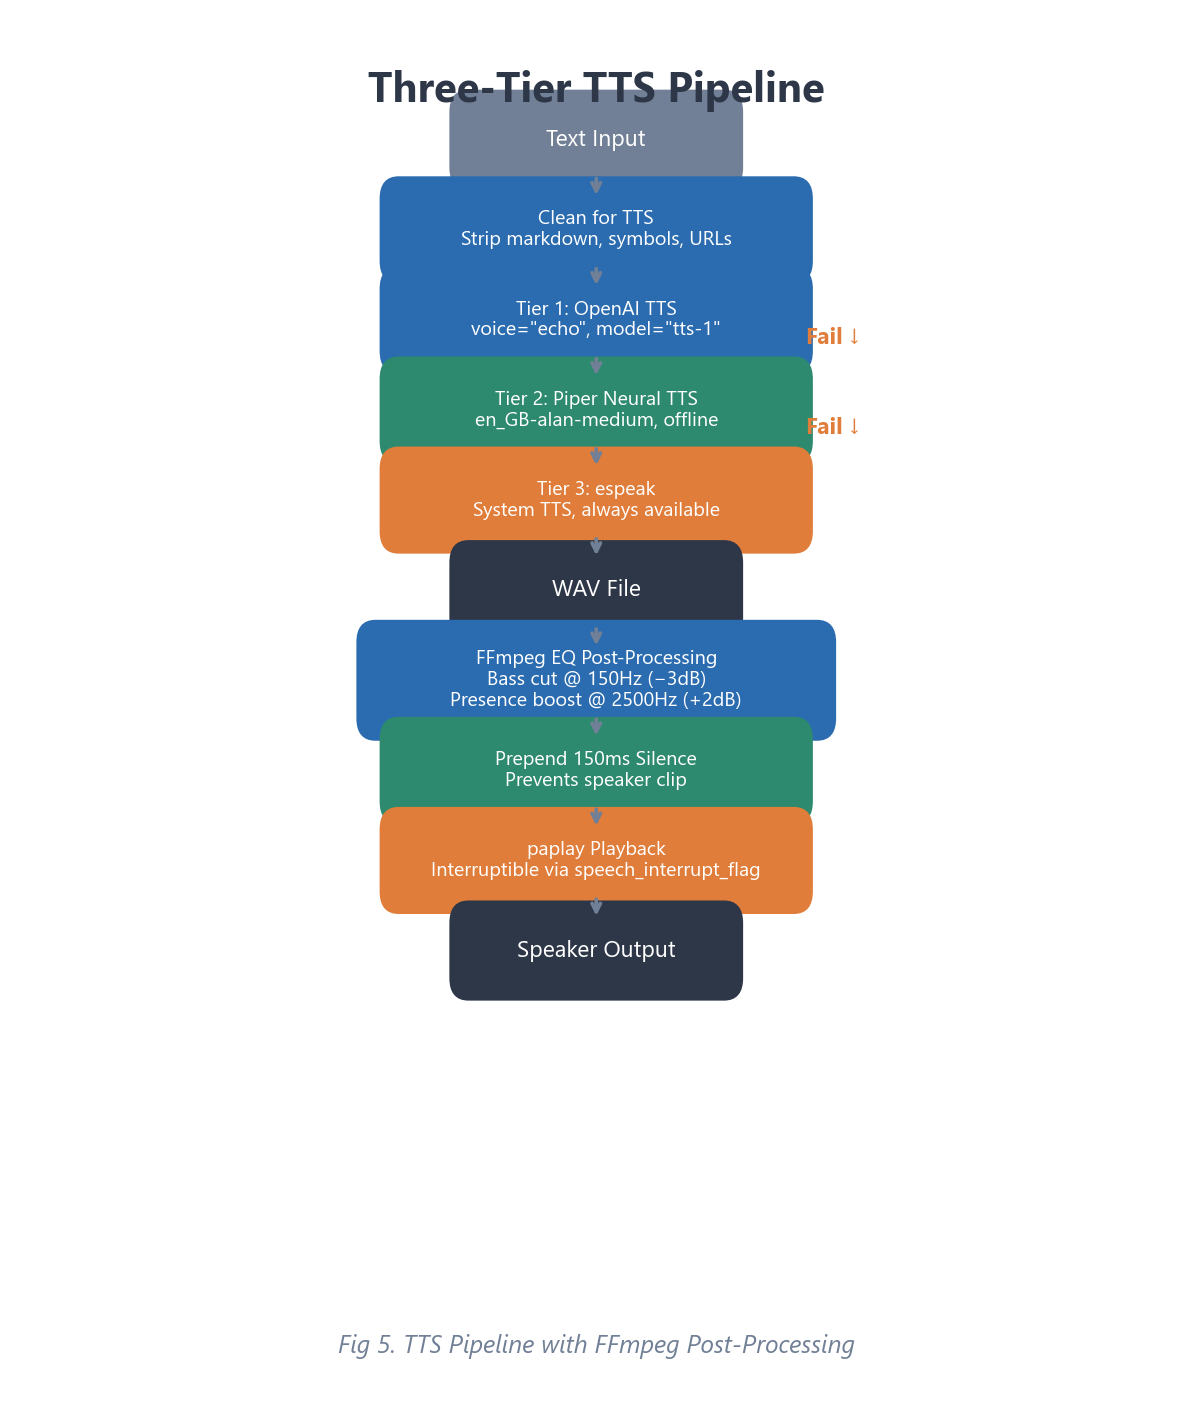
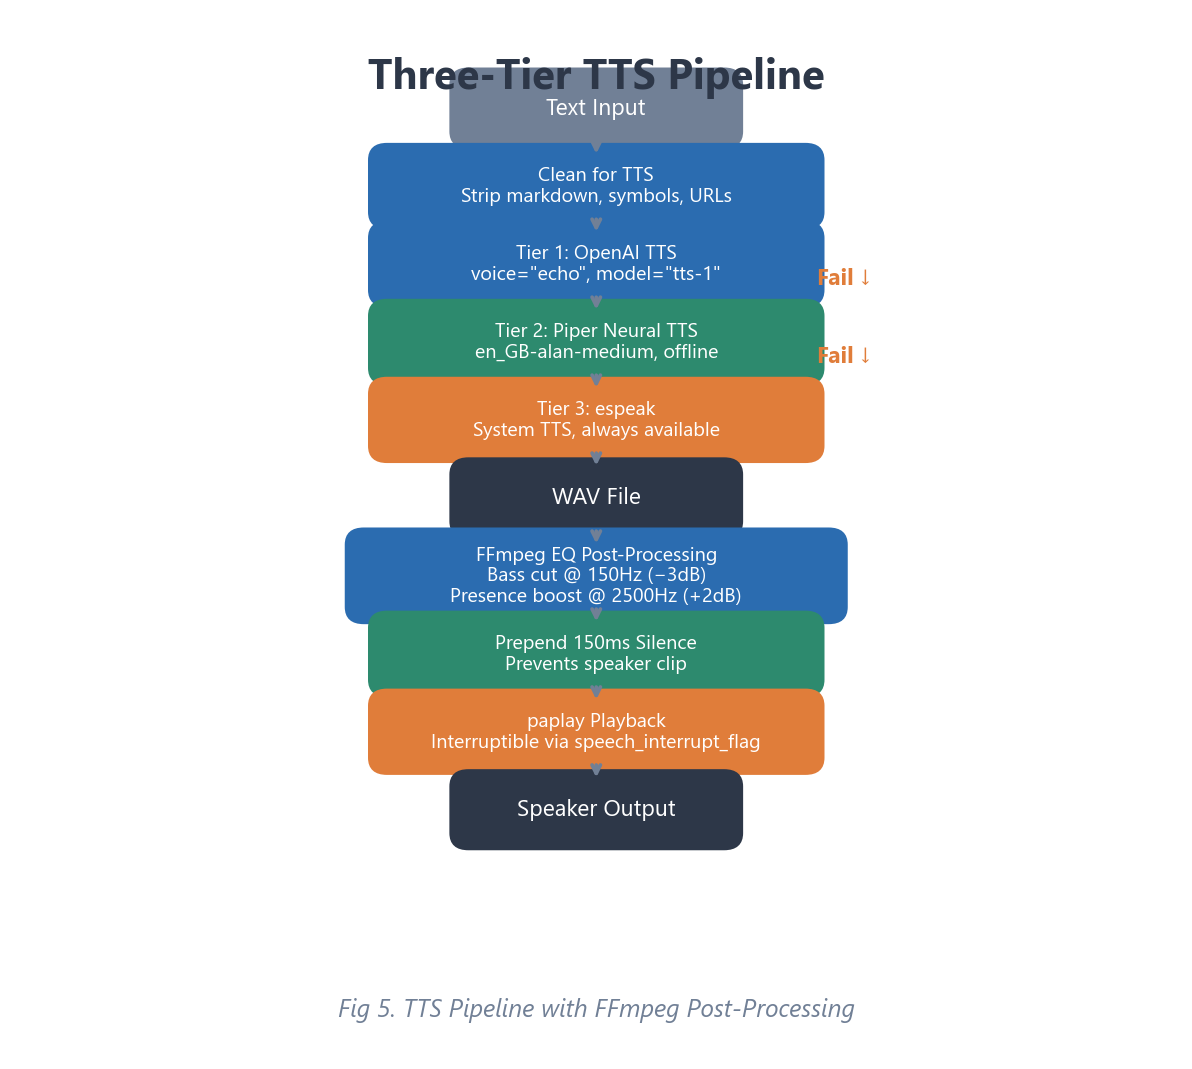
Update diagrams (fig3-5) and add final test plan

Changed region(s): [[0.2794, 0.0309, 0.7139, 0.8026], [0.2794, 0.9261, 0.7139, 0.957]]

diff --git a/test-plan.md b/test-plan.md
@@ -1,0 +1,201 @@
+Test Plan Document
+==================
+
+IDENTIFICATION INFORMATION
+--------------------------
+
+### Product
+
+- **Product Name:** Gizmo – AI-Powered Meccanoid Robot Assistant
+
+### Project Description
+
+The Gizmo project transforms a Meccanoid G15KS toy robot into a fully interactive, voice-controlled AI assistant powered by a Raspberry Pi 5. The system combines offline speech recognition (Vosk), conversational AI (GPT-4o-mini with function calling), a three-tier text-to-speech pipeline (OpenAI TTS / Piper / espeak), custom servo motor control via a proprietary 2400-baud serial protocol bit-banged on GPIO pins, and DC drive motor control via an L298N motor driver. The robot responds to verbal commands, performs 18 physical gestures, searches the web for real-time information, and maintains persistent memory across sessions.
+
+### Testing Objectives
+
+The objective of this test plan is to verify that the main functional and non-functional requirements of the Meccanoid AI Assistant are working as intended. Testing ensures:
+
+- Voice commands are recognized accurately.
+- AI responses are generated and spoken correctly.
+- Servo and motor systems operate safely and reliably.
+- Full system integration functions without failure.
+- Performance meets response-time requirements.
+- The system runs stably over extended periods without memory leaks or deadlocks.
+
+### Features to be Tested
+
+(Referenced from Requirements Document – CSCI 497)
+
+- Speech Recognition Module (Vosk offline STT)
+- AI Response Engine (GPT-4o-mini via OpenAI API)
+- Three-Tier Text-to-Speech Pipeline (OpenAI TTS, Piper, espeak)
+- Custom Servo Protocol Driver (2400-baud GPIO bit-bang)
+- Drive Motor Control (L298N H-Bridge, forward/backward)
+- Three-Tier Command Parsing Pipeline (NLP correction, fast-path, GPT function calling)
+- Persistent Memory System (gizmo_memory.json)
+- Full System End-to-End Interaction
+- Performance and Stability (4+ hour runtime test)
+
+### Features Not to Be Tested
+
+- **Internet connectivity reliability:** Dependent on external network infrastructure.
+- **Third-party API internal logic:** GPT-4o-mini behavior outside scope of project control.
+- **Cosmetic shell design of robot:** Focus is on functionality, not aesthetics.
+
+
+UNIT TEST
+---------
+
+### UNIT TEST STRATEGY / EXTENT OF UNIT TESTING:
+
+Unit testing evaluates individual modules independently before integration. An automated test harness (`test_gizmo.py`) mocks all hardware (GPIO, servos, motors) and OpenAI API calls, allowing the full command parsing pipeline to be tested on any machine without physical hardware.
+
+**Test Environment:**
+- Hardware: Raspberry Pi 5
+- OS: Raspberry Pi OS (Bookworm)
+- Python Version: 3.11
+- Servo Control: Custom 2400-baud serial protocol via GPIO bit-banging
+- Motor Driver: L298N Dual H-Bridge
+- Libraries: Vosk, OpenAI SDK, gpiozero, sounddevice, Piper TTS, espeak
+
+### UNIT TEST CASES
+
+| # | OBJECTIVE | INPUT | EXPECTED RESULTS | TEST DELIVERABLES |
+| - | --------- | ----- | ---------------- | ----------------- |
+| 1 | Verify wake phrase activates Gizmo | "Hey Gizmo" | Gizmo transitions to awake state | Automated test log (33/33 passed) |
+| 2 | Verify sleep phrase deactivates Gizmo | "Goodnight Gizmo" | Gizmo transitions to sleep state | Automated test log |
+| 3 | Verify forward movement (fast-path) | "Go forward" | Motor driver engaged, robot moves forward | Automated test log |
+| 4 | Verify backward movement (fast-path) | "Go backward" | Motor driver engaged, robot moves backward | Automated test log |
+| 5 | Verify turn left (fast-path) | "Turn left" | Left turn motor sequence | Automated test log |
+| 6 | Verify turn right (fast-path) | "Turn right" | Right turn motor sequence | Automated test log |
+| 7 | Verify stop command (fast-path) | "Stop" | All motors stop | Automated test log |
+| 8 | Verify wave gesture (fast-path) | "Wave" | Wave gesture executed | Automated test log |
+| 9 | Verify arms up gesture | "Arms up" | Both arms raise | Automated test log |
+| 10 | Verify arms down gesture | "Arms down" | Both arms lower | Automated test log |
+| 11 | Verify look left gesture | "Look left" | Head pans left | Automated test log |
+| 12 | Verify look right gesture | "Look right" | Head pans right | Automated test log |
+| 13 | Verify look forward gesture | "Look forward" | Head returns to center | Automated test log |
+| 14 | Verify look up gesture | "Look up" | Head tilts up | Automated test log |
+| 15 | Verify look down gesture | "Look down" | Head tilts down | Automated test log |
+| 18 | Verify celebrate gesture | "Celebrate" | Celebration animation | Automated test log |
+| 19 | Verify park gesture | "Park" | All servos return to neutral | Automated test log |
+| 20 | Verify volume up | "Volume up" | System volume increases | Automated test log |
+| 21 | Verify volume down | "Volume down" | System volume decreases | Automated test log |
+| 22 | Verify mute | "Mute" | System volume set to 0% | Automated test log |
+| 23 | Verify louder | "Louder" | System volume increases | Automated test log |
+| 24 | Verify quieter | "Quieter" | System volume decreases | Automated test log |
+| 25 | Verify AI joke request | "Tell me a joke" | GPT-4o-mini generates joke response | Automated test log |
+| 26 | Verify time query | "What time is it?" | AI responds with current time | Automated test log |
+| 27 | Verify natural gesture request via AI | "Can you do a wave?" | AI calls perform_gesture function | Automated test log |
+| 28 | Verify distance command via AI | "Walk 3 feet" | AI calls move_robot with distance | Automated test log |
+| 29 | Verify complex NL command via AI | "Look over there to the left" | AI interprets and calls gesture | Automated test log |
+| 30 | Verify conversational fallback | "What's the meaning of life?" | AI generates conversational response | Automated test log |
+| 31 | Verify commands ignored while sleeping | Command while sleeping | No action taken | Automated test log |
+| 32 | Verify NLP self-correction | "Turn left oh wait right" | Corrected to "turn right" | Automated test log |
+| 33 | Verify memory system loads | Load gizmo_memory.json | File loads without errors | Automated test log |
+
+
+REGRESSION TEST
+---------------
+
+### Regression Test Strategy
+
+Ensure that previously developed and tested software still performs after change. After any major code or hardware change, core features are retested to make sure nothing previously working has broken.
+
+### Regression Test Cases
+
+| # | OBJECTIVE | INPUT | EXPECTED RESULTS | OBSERVED |
+| - | --------- | ----- | ---------------- | -------- |
+| 1 | Confirm servo sweep stability after driver refactor | Sweep all 8 servos | No jitter, crash, or signal corruption | All 8 servos swept cleanly — PASS |
+| 2 | Confirm speech-to-action mapping after parser update | "Move backward" | Correct motor response | Motor engaged correctly — PASS |
+| 3 | Confirm TTS pipeline after FFmpeg EQ changes | Generate speech output | Audio plays with correct EQ profile | Audio quality consistent — PASS |
+| 4 | Confirm wake/sleep after idle animation addition | "Hey Gizmo" / "Goodnight Gizmo" | State transitions correct | Transitions correct — PASS |
+
+
+INTEGRATION TEST
+----------------
+
+### Integration Test Strategy and Extent of Integration Testing
+
+Combine individual software modules and test as a group. Integration testing evaluates all integrations between:
+- Speech Recognition → AI Engine → Text-to-Speech
+- Speech Recognition → Command Parser → Servo/Motor Control
+- Hardware + Software interaction across all concurrent threads
+
+All servo chains, motor driver, TTS pipeline, and AI conversation system are tested together to confirm that hardware and software interact correctly under concurrent operation.
+
+### Integration Test Cases
+
+| # | OBJECTIVE | INPUT | EXPECTED RESULTS | TEST DELIVERABLES |
+| - | --------- | ----- | ---------------- | ----------------- |
+| 1 | Verify voice-to-response pipeline | "Tell me about robotics" | AI response spoken aloud via TTS | Video demo recording |
+| 2 | Verify voice-to-action pipeline | "Turn head left" | Head pan servo rotates left | Movement log |
+| 3 | Full command sequence (3 commands) | 3 commands in a row | All executed without crash | Test report |
+| 4 | Voice recognition at varying distance | Speak at 1, 2, 3 feet | Correct transcription at all distances | STT log file |
+| 5 | Multi-turn conversation | 4+ back-and-forth exchanges | Chat history maintains context | Conversation log |
+| 6 | Web search integration | "What's the weather?" | Serper API results injected, accurate response | API response log |
+| 7 | Mid-speech interruption | Speak while Gizmo is talking | Playback stops within 50ms | Timing measurement |
+| 8 | Concurrent servo + TTS operation | Issue gesture during AI response | Servos maintain timing while TTS plays | Thread timing log |
+
+
+USER-ACCEPTANCE TEST
+--------------------
+
+### User-Acceptance Test Strategy
+
+User Acceptance Testing (UAT) was conducted using observation and verbal feedback. 3 participants (college students, ages 20–25) were given a brief introduction to Gizmo and asked to interact with the robot naturally using voice commands. Participants were observed during the session and provided verbal feedback afterward. Participants were informed about the purpose of the test before participating.
+
+### User-Acceptance Test Cases
+
+| # | TEST ITEM | EXPECTED RESULTS | ACTUAL RESULTS | DATE |
+| - | --------- | ---------------- | -------------- | ---- |
+| 1 | User says "Hey Gizmo, who are you?" | Robot responds with personality introduction | Gizmo introduced itself with personality | Feb 2026 |
+| 2 | User says "Wave at me" | Robot performs wave gesture | Wave gesture executed successfully | Feb 2026 |
+| 3 | User says "What's the weather today?" | Robot searches web and speaks current weather | Correct weather reported | Feb 2026 |
+| 4 | Multi-command interaction (5 commands) | No system crash, all commands executed | All commands processed without errors | Feb 2026 |
+| 5 | User says "Remember my name is [name]" | Robot stores name in persistent memory | Name stored and recalled after restart | Feb 2026 |
+
+
+Test Deliverables
+-----------------
+
+- Test Plan (this document)
+- Automated Test Scripts (`test_gizmo.py` — 33 test cases)
+- Hardware Diagnostic Scripts (`diag_quick.py`, `test_wiring.py`, `test_motors.py`, `test_arms.py`)
+- Test Result Reports (33/33 automated tests passed)
+- Demonstration Video Recording
+
+
+Schedule
+--------
+
+| Milestone | Target Date |
+| --------- | ----------- |
+| Unit Testing Complete | Week 1 |
+| Integration Testing Complete | Week 2 |
+| System Stability Testing | Week 3 |
+| User Acceptance Testing | Week 4 |
+| Final Demo Ready | Before March 2, 2026 |
+
+
+Risks
+-----
+
+| Risk | Mitigation Plan | Contingency Plan |
+| ---- | --------------- | ---------------- |
+| Servo jitter from GIL timing | Use ctypes clock_nanosleep for precise timing | Replace servo with standard PWM model |
+| Speech misrecognition / false triggers | Add MIN_WORDS filter and NLP correction pipeline | Reduce vocabulary set |
+| Motor overheating during extended use | Limit continuous motor runtime duration | Install cooling fan |
+| API latency causing long silence | Pre-cache thinking phrases, parallel API calls | Use local LLM as offline fallback |
+| Self-hearing feedback loops | Flush audio queue + cooldown period after speech | Disable microphone during TTS playback |
+| Thread deadlocks with 8+ concurrent threads | Use Events, Locks, and Queues consistently | Add watchdog timer to restart hung threads |
+
+
+Appendix
+--------
+
+- Hardware Wiring: 8 GPIO pins for individual servo chains, L298N motor driver on GPIO
+- Servo Protocol: Custom 2400-baud serial, 6-byte packets (header 0xFF + 4 position bytes + checksum)
+- Requirements Traceability Matrix (see Requirements Document – CSCI 497)
+- Automated test output: 33/33 passed
